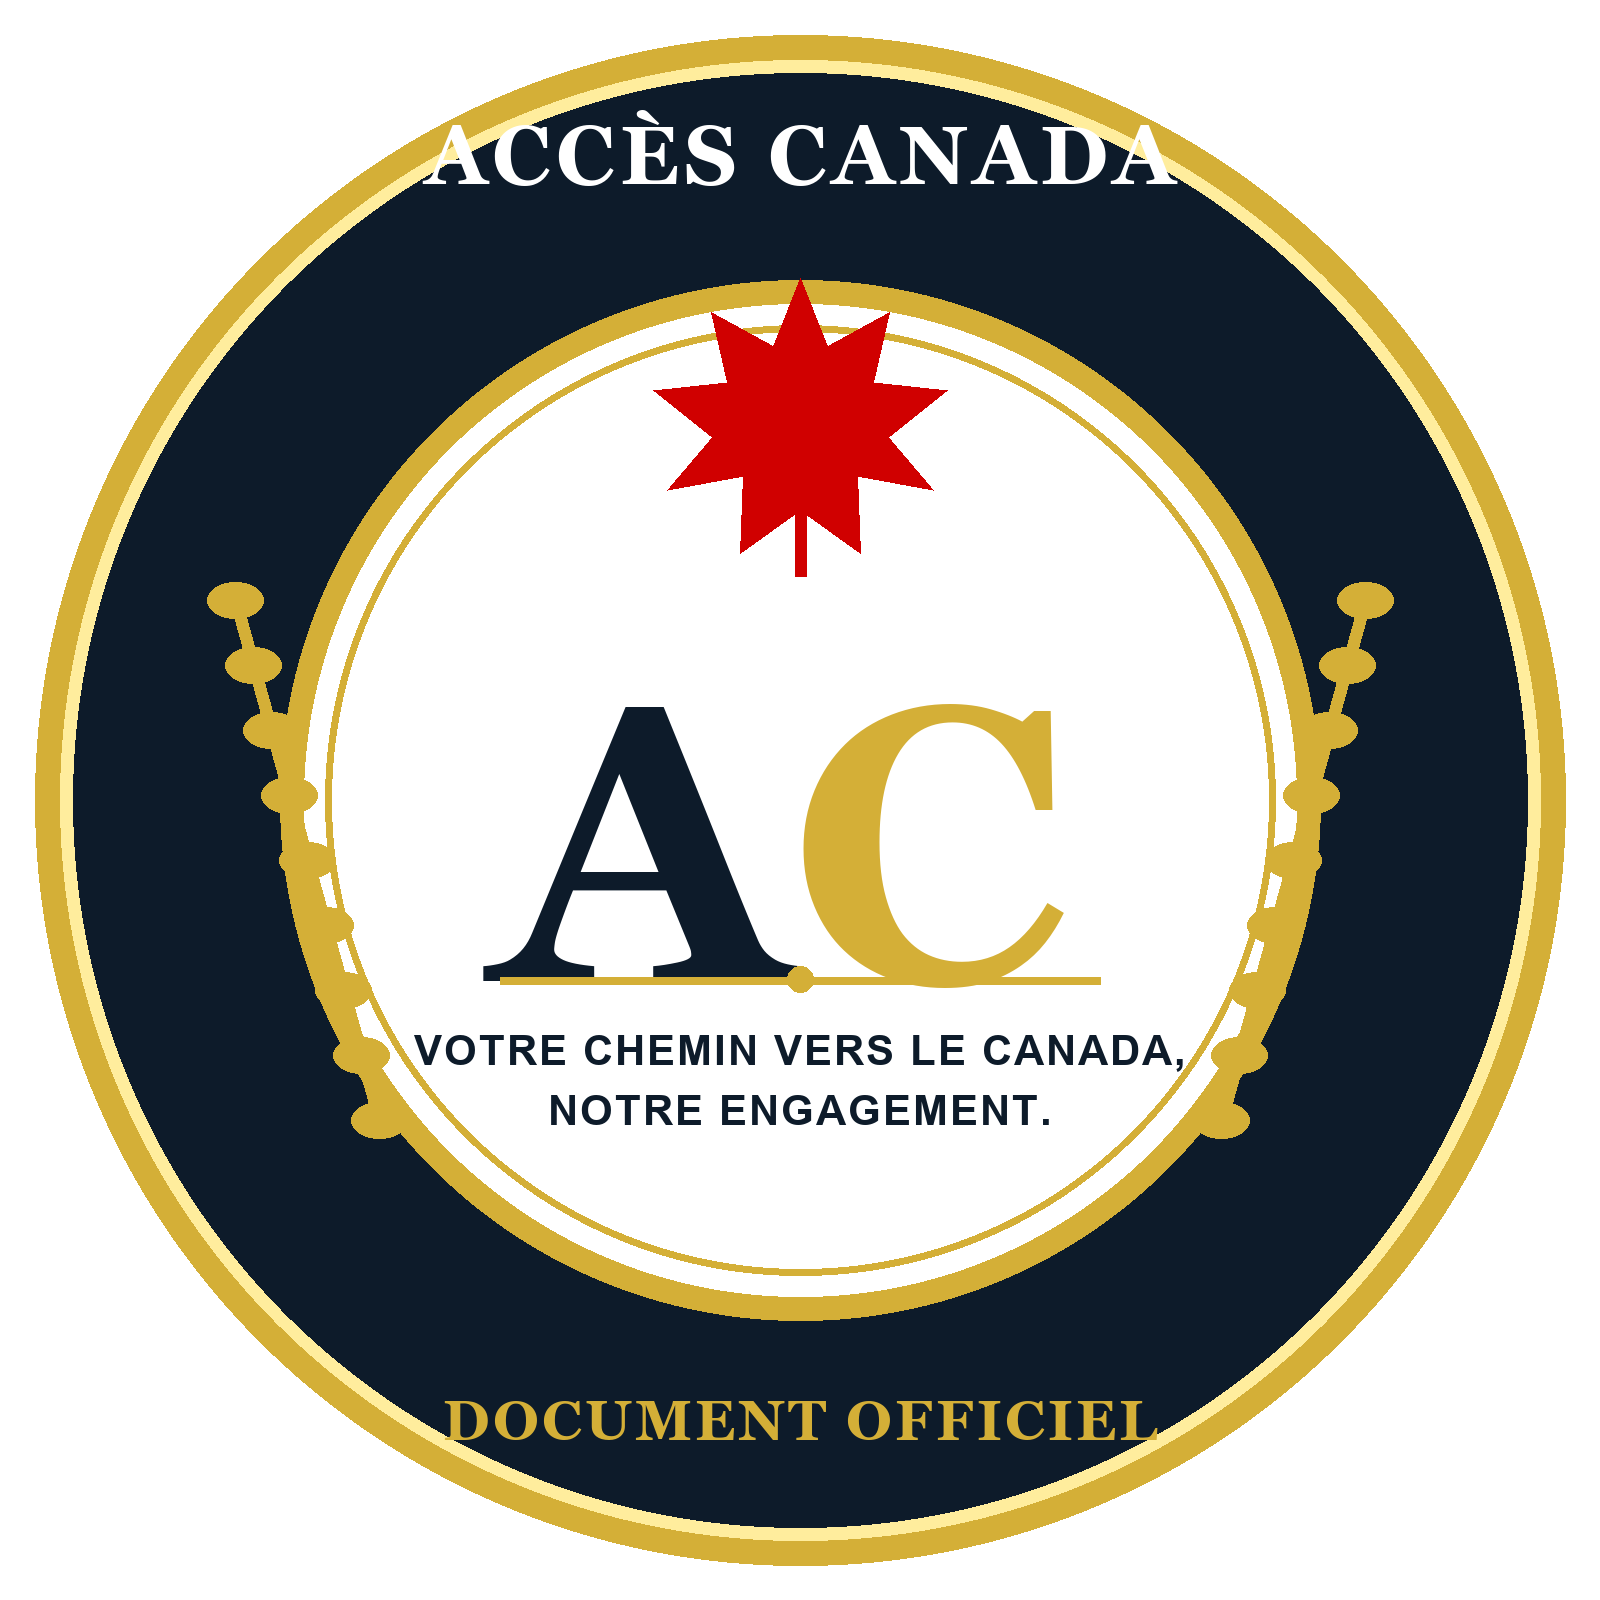
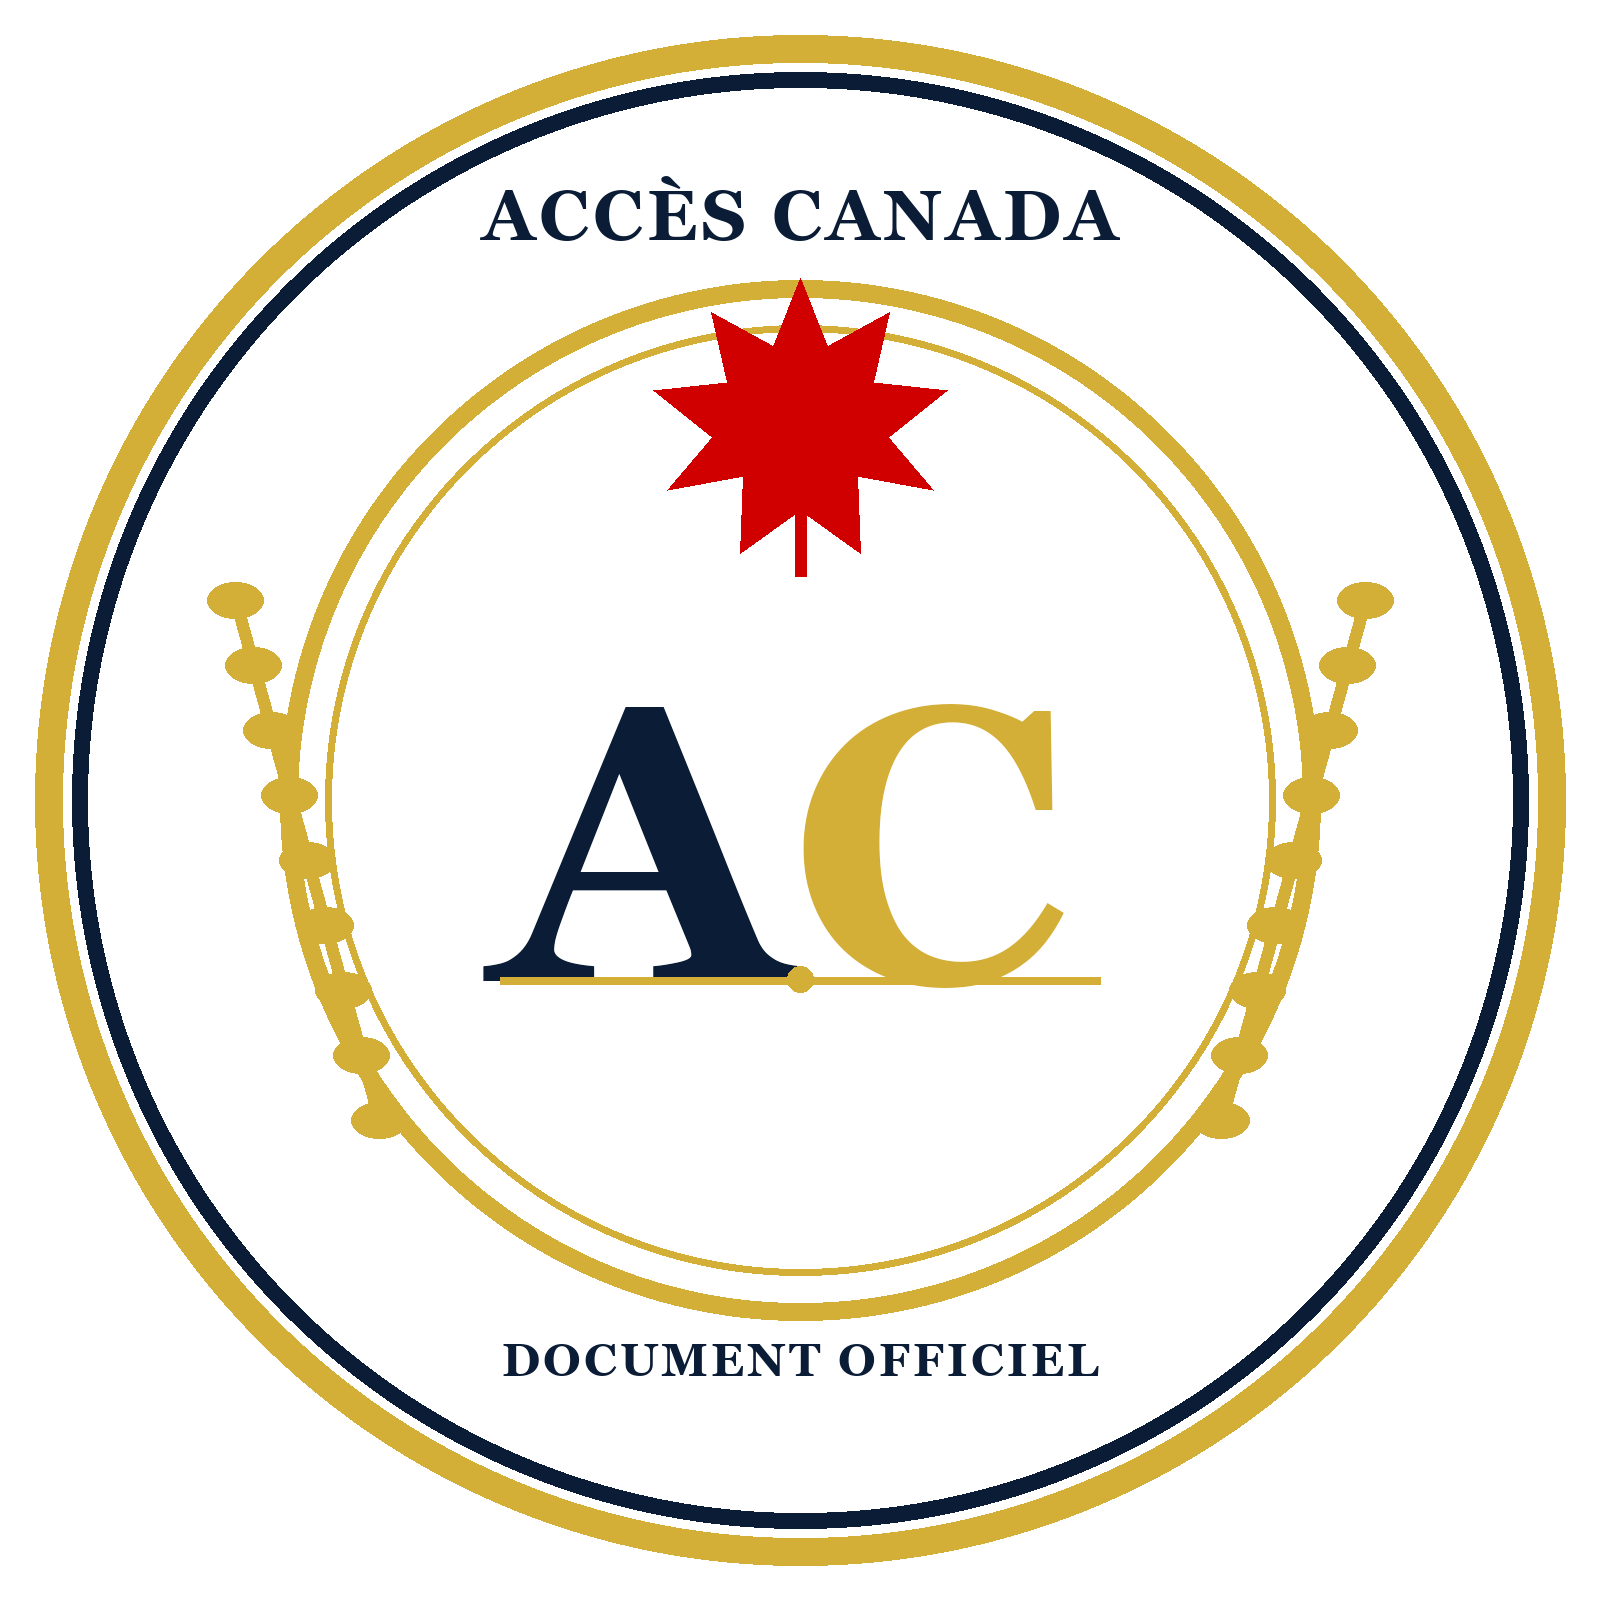
feat: apply official signature and clear document seal

diff --git a/lib/document-branding.ts b/lib/document-branding.ts
@@ -1,6 +1,7 @@
 import QRCode from "qrcode";
 import { formatDateFr } from "./format.ts";
 import { brand } from "./site.ts";
+import { directorSignatureHeight, directorSignatureRuns, directorSignatureWidth } from "./signature-director-data.ts";
 
 export const PDF_NAVY = "0.051 0.106 0.165";
 export const PDF_GOLD = "0.831 0.686 0.216";
@@ -37,10 +38,13 @@ export function watermarkCommands(pageWidth=612,pageHeight=792){const cx=pageWid
 ].join("");
 }
 
-export function officialSealCommands(x:number,y:number,size:number,digitallySigned=false){const c=size/2;let out=pdfCircle(x+c,y+c,c-3,PDF_GOLD,false,4);out+=pdfCircle(x+c,y+c,c-13,PDF_NAVY,false,11);out+=pdfCircle(x+c,y+c,c-28,PDF_GOLD,false,2);out+=pdfText("ACCÈS CANADA",x+size*.17,y+size*.76,size*.075,"F2",PDF_NAVY);out+=pdfText("AC",x+size*.31,y+size*.39,size*.22,"F2",PDF_NAVY);out+=pdfText("DOCUMENT OFFICIEL",x+size*.14,y+size*.16,size*.055,"F2",PDF_GOLD);out+=pdfText("*",x+size*.47,y+size*.62,size*.14,"F2",PDF_RED);if(digitallySigned){out+=pdfRect(x+size*.1,y+size*.05,size*.8,size*.12,PDF_NAVY);out+=pdfText("SIGNÉ NUMÉRIQUEMENT",x+size*.16,y+size*.09,size*.038,"F2","1 1 1");}return out;}
+// The fourth argument remains for compatibility with existing document templates.
+// eslint-disable-next-line @typescript-eslint/no-unused-vars
+export function officialSealCommands(x:number,y:number,size:number,_digitallySigned=false){const c=size/2;let out=pdfCircle(x+c,y+c,c-3,"1 1 1",true);out+=pdfCircle(x+c,y+c,c-3,PDF_GOLD,false,3);out+=pdfCircle(x+c,y+c,c-11,PDF_NAVY,false,3);out+=pdfCircle(x+c,y+c,c-23,PDF_GOLD,false,1.3);out+=pdfText("ACCÈS CANADA",x+size*.19,y+size*.76,size*.065,"F2",PDF_NAVY);out+=pdfText("AC",x+size*.31,y+size*.38,size*.22,"F2",PDF_NAVY);out+=pdfText("DOCUMENT OFFICIEL",x+size*.16,y+size*.15,size*.048,"F2",PDF_GOLD);out+=pdfText("*",x+size*.47,y+size*.60,size*.13,"F2",PDF_RED);return out;}
 
-function signaturePath(kind:"director"|"counsel",x:number,y:number,width:number){const scale=width/900,sy=scale*.58;const path=kind==="director"?"40 166 m 100 28 138 44 107 170 c 91 234 135 136 165 95 c 185 68 189 151 210 147 c 239 142 240 56 259 51 c 284 43 263 169 293 157 c 317 147 327 90 348 92 c 374 95 361 162 390 157 c 424 151 445 73 463 88 c 479 102 444 156 475 160 c 509 165 546 84 567 96 c 586 108 559 157 586 161 c 622 166 650 99 677 99 c 700 100 684 152 713 155 c 740 158 773 123 806 114 c":"35 175 m 89 42 151 35 125 165 c 112 230 150 156 173 109 c 188 78 197 164 216 157 c 245 146 255 66 278 63 c 300 61 273 162 306 157 c 342 151 357 66 383 69 c 407 72 374 151 407 154 c 436 156 458 85 485 87 c 509 89 478 153 505 158 c 540 165 574 84 597 91 c 619 98 588 151 615 157 c 645 164 675 101 700 106 c 725 111 700 156 731 156 c 771 156 800 117 839 127 c";return `q ${PDF_NAVY} RG 6 w 1 J 1 j ${scale} 0 0 ${sy} ${x} ${y} cm ${path} S Q\n`;}
-export function companySignatureCommands(kind:"director"|"counsel",x:number,y:number,width=190){const director=kind==="director";return signaturePath(kind,x,y+28,width)+pdfText(director?"Christian Nkuli Mboyo":"Me Régine Sifa Buledi",x,y+20,9,"F2",PDF_NAVY)+pdfText(director?"Directeur général":"Conseillère juridique",x,y+7,7.5,"F1",PDF_MUTED)+pdfText("Accès Canada",x,y-5,7.5,"F1",PDF_MUTED);}
+function signaturePath(kind:"counsel",x:number,y:number,width:number){const scale=width/900,sy=scale*.58;const path="35 175 m 89 42 151 35 125 165 c 112 230 150 156 173 109 c 188 78 197 164 216 157 c 245 146 255 66 278 63 c 300 61 273 162 306 157 c 342 151 357 66 383 69 c 407 72 374 151 407 154 c 436 156 458 85 485 87 c 509 89 478 153 505 158 c 540 165 574 84 597 91 c 619 98 588 151 615 157 c 645 164 675 101 700 106 c 725 111 700 156 731 156 c 771 156 800 117 839 127 c";return `q ${PDF_NAVY} RG 6 w 1 J 1 j ${scale} 0 0 ${sy} ${x} ${y} cm ${path} S Q\n`;}
+function directorSignatureCommands(x:number,y:number,width:number){const scale=width/directorSignatureWidth,height=directorSignatureHeight*scale;return directorSignatureRuns.map(([rx,ry,rw])=>pdfRect(x+rx*scale,y+ry*scale,Math.max(rw*scale,.2),Math.max(height/directorSignatureHeight,.2),PDF_NAVY)).join("");}
+export function companySignatureCommands(kind:"director"|"counsel",x:number,y:number,width=190){const director=kind==="director";const mark=director?directorSignatureCommands(x,y+28,width):signaturePath("counsel",x,y+28,width);return mark+pdfText(director?"Christian Nkuli Mboyo":"Me Régine Sifa Buledi",x,y+20,9,"F2",PDF_NAVY)+pdfText(director?"Directeur général":"Conseillère juridique",x,y+7,7.5,"F1",PDF_MUTED)+pdfText("Accès Canada",x,y-5,7.5,"F1",PDF_MUTED);}
 export function clientSignaturePlaceholder(x:number,y:number,width=190){return pdfLine(x,y+38,x+width,y+38,"0.70 0.72 0.75",.8)+pdfText("Signature du client",x,y+20,8,"F2",PDF_NAVY)+pdfText("Date : __________________",x,y+6,7.5,"F1",PDF_MUTED);}
 
 export function digitalSignatureCertificateCommands(meta:DocumentBrandMetadata,x:number,y:number,width=540){
@@ -50,7 +54,7 @@ export function digitalSignatureCertificateCommands(meta:DocumentBrandMetadata,x
   return [
     pdfRect(x,y,width,54,"0.955 0.965 0.975"),
     pdfRect(x,y,width,3,PDF_GOLD),
-    pdfText("SIGNÉ NUMÉRIQUEMENT",x+12,y+37,8,"F2",PDF_NAVY),
+    pdfText("VÉRIFICATION DU DOCUMENT",x+12,y+37,8,"F2",PDF_NAVY),
     pdfText(`Empreinte SHA-256 : ${first}`,x+12,y+21,6.5,"F1",PDF_MUTED),
     second?pdfText(second,x+105,y+9,6.5,"F1",PDF_MUTED):"",
   ].join("");

diff --git a/tests/document-branding.test.ts b/tests/document-branding.test.ts
@@ -10,8 +10,8 @@ test("le cachet officiel respecte les textes approuvés et possède toutes ses v
   const seal = readFileSync("public/brand/seal-official.svg", "utf8");
   assert.match(seal, /ACCÈS CANADA/);
   assert.match(seal, /DOCUMENT OFFICIEL/);
-  assert.match(seal, /VOTRE CHEMIN VERS LE CANADA,[\s\S]*NOTRE ENGAGEMENT\./i);
   assert.doesNotMatch(seal, /IMMIGRATION|DEPUIS 2026/i);
+  assert.doesNotMatch(seal, /SIGNÉ NUMÉRIQUEMENT|SIGNATURE NUMÉRIQUE/i);
 });
 
 test("les documents disposent des signatures, du cachet, du QR et du pied de page commun", () => {
@@ -21,7 +21,9 @@ test("les documents disposent des signatures, du cachet, du QR et du pied de pag
   assert.match(branding, /Christian Nkuli Mboyo/);
   assert.match(branding, /Me Régine Sifa Buledi/);
   assert.match(branding, /Signature du client/);
-  assert.match(branding, /SIGNÉ NUMÉRIQUEMENT/);
+  assert.equal(existsSync("public/brand/signature-director.png"), true);
+  assert.match(branding, /VÉRIFICATION DU DOCUMENT/);
+  assert.doesNotMatch(branding, /SIGNÉ NUMÉRIQUEMENT|SIGNATURE NUMÉRIQUE/i);
   assert.match(branding, /Empreinte SHA-256/);
   assert.match(branding, /Document confidentiel - Acces Canada/);
   assert.match(branding, /Page.*sur/);

diff --git a/lib/signature-director-data.ts b/lib/signature-director-data.ts
@@ -1,0 +1,5 @@
+// Generated from the approved transparent signature asset.
+export const directorSignatureWidth=720;
+export const directorSignatureHeight=303;
+export const directorSignatureRuns:readonly [number,number,number][]=
+[[397,229,2],[396,228,3],[395,227,4],[395,226,3],[394,225,4],[393,224,4],[393,223,4],[392,222,4],[392,221,3],[391,220,4],[532,220,3],[390,219,4],[531,219,5],[567,219,3],[390,218,4],[530,218,6],[565,218,5],[389,217,4],[529,217,8],[564,217,6],[127,216,7],[389,216,4],[528,216,9],[563,216,7],[124,215,12],[388,215,4],[527,215,10],[562,215,8],[121,214,16],[387,214,4],[526,214,5],[532,214,4],[561,214,9],[119,213,10],[132,213,6],[387,213,4],[525,213,5],[532,213,4],[560,213,10],[118,212,8],[134,212,4],[386,212,4],[525,212,5],[531,212,5],[559,212,5],[565,212,4],[116,211,8],[135,211,3],[386,211,4],[524,211,5],[531,211,5],[559,211,5],[565,211,4],[114,210,8],[135,210,4],[385,210,4],[523,210,5],[531,210,4],[558,210,5],[564,210,5],[113,209,7],[135,209,4],[385,209,4],[522,209,5],[531,209,4],[557,209,5],[564,209,4],[111,208,7],[135,208,4],[384,208,4],[521,208,5],[530,208,5],[556,208,5],[564,208,4],[110,207,6],[135,207,4],[384,207,4],[521,207,4],[530,207,4],[555,207,5],[563,207,4],[590,207,3],[108,206,7],[135,206,4],[383,206,4],[520,206,5],[530,206,4],[554,206,5],[563,206,4],[589,206,4],[107,205,6],[135,205,4],[383,205,4],[519,205,5],[529,205,5],[554,205,4],[562,205,5],[588,205,5],[106,204,6],[135,204,3],[382,204,4],[518,204,5],[529,204,4],[553,204,4],[562,204,4],[588,204,4],[104,203,7],[134,203,4],[381,203,5],[404,203,2],[518,203,4],[529,203,4],[552,203,5],[561,203,5],[587,203,4],[103,202,6],[134,202,4],[381,202,4],[403,202,4],[517,202,5],[528,202,5],[551,202,5],[561,202,4],[586,202,5],[102,201,6],[134,201,4],[380,201,5],[402,201,5],[516,201,5],[528,201,4],[550,201,5],[561,201,4],[586,201,4],[101,200,6],[133,200,4],[154,200,1],[380,200,4],[401,200,5],[516,200,4],[528,200,4],[550,200,4],[560,200,5],[585,200,5],[99,199,6],[133,199,4],[153,199,3],[379,199,5],[401,199,4],[515,199,5],[527,199,5],[549,199,4],[560,199,4],[584,199,5],[98,198,6],[133,198,4],[153,198,4],[379,198,4],[400,198,5],[454,198,3],[514,198,5],[527,198,4],[548,198,5],[559,198,5],[584,198,4],[97,197,6],[132,197,4],[152,197,4],[378,197,4],[399,197,5],[453,197,4],[513,197,5],[527,197,4],[547,197,5],[559,197,4],[583,197,5],[96,196,6],[132,196,4],[151,196,5],[225,196,2],[378,196,4],[399,196,4],[452,196,5],[513,196,4],[526,196,5],[546,196,5],[558,196,5],[583,196,4],[95,195,6],[131,195,4],[151,195,4],[224,195,3],[377,195,4],[398,195,5],[451,195,6],[512,195,5],[526,195,5],[546,195,4],[558,195,4],[582,195,4],[94,194,6],[131,194,4],[150,194,5],[223,194,4],[377,194,4],[397,194,5],[450,194,6],[511,194,5],[526,194,4],[545,194,4],[558,194,4],[581,194,5],[93,193,5],[130,193,4],[150,193,4],[222,193,4],[376,193,4],[397,193,4],[449,193,7],[511,193,4],[526,193,4],[544,193,5],[557,193,5],[581,193,4],[92,192,5],[130,192,4],[149,192,4],[222,192,4],[376,192,4],[396,192,5],[449,192,6],[510,192,5],[525,192,5],[543,192,5],[557,192,4],[580,192,4],[91,191,5],[129,191,4],[149,191,4],[221,191,4],[375,191,4],[395,191,5],[448,191,7],[509,191,5],[525,191,4],[542,191,5],[556,191,5],[579,191,5],[90,190,5],[128,190,5],[148,190,4],[220,190,4],[375,190,4],[395,190,4],[447,190,7],[509,190,4],[525,190,4],[542,190,4],[556,190,4],[579,190,4],[89,189,5],[128,189,4],[147,189,5],[219,189,5],[328,189,4],[374,189,4],[394,189,5],[446,189,8],[508,189,5],[524,189,5],[541,189,5],[555,189,5],[578,189,5],[88,188,5],[127,188,5],[147,188,4],[219,188,4],[326,188,7],[374,188,4],[393,188,5],[446,188,7],[507,188,5],[524,188,4],[540,188,5],[555,188,5],[577,188,5],[87,187,5],[127,187,4],[146,187,4],[218,187,5],[225,187,13],[325,187,9],[373,187,4],[393,187,4],[445,187,8],[507,187,4],[524,187,4],[539,187,5],[554,187,5],[577,187,4],[86,186,5],[126,186,4],[146,186,4],[217,186,21],[324,186,11],[372,186,5],[392,186,5],[444,186,8],[506,186,5],[523,186,5],[539,186,4],[554,186,5],[576,186,5],[85,185,5],[125,185,5],[145,185,4],[210,185,28],[323,185,5],[331,185,4],[372,185,4],[391,185,5],[444,185,7],[505,185,5],[523,185,5],[538,185,5],[554,185,4],[576,185,4],[84,184,5],[125,184,4],[144,184,5],[204,184,22],[323,184,4],[331,184,4],[371,184,5],[391,184,4],[443,184,8],[505,184,4],[523,184,4],[537,184,5],[553,184,5],[575,184,4],[83,183,6],[124,183,5],[144,183,4],[198,183,22],[322,183,4],[332,183,3],[371,183,4],[390,183,5],[442,183,8],[504,183,5],[522,183,5],[536,183,5],[553,183,4],[574,183,5],[82,182,6],[123,182,5],[143,182,4],[197,182,16],[215,182,5],[321,182,5],[332,182,4],[370,182,5],[390,182,4],[442,182,8],[503,182,5],[522,182,5],[536,182,4],[552,182,5],[574,182,4],[81,181,6],[123,181,4],[143,181,4],[197,181,10],[214,181,5],[321,181,4],[332,181,4],[370,181,4],[389,181,4],[441,181,8],[503,181,4],[522,181,4],[535,181,5],[552,181,5],[573,181,5],[81,180,5],[122,180,5],[142,180,4],[198,180,3],[214,180,4],[320,180,4],[332,180,4],[369,180,5],[388,180,5],[441,180,7],[502,180,5],[522,180,4],[534,180,5],[552,180,4],[573,180,4],[80,179,5],[121,179,5],[142,179,4],[213,179,5],[319,179,5],[332,179,4],[369,179,4],[388,179,4],[440,179,8],[501,179,5],[521,179,5],[533,179,5],[551,179,5],[572,179,5],[79,178,5],[121,178,4],[141,178,4],[213,178,4],[319,178,4],[332,178,4],[368,178,5],[387,178,5],[439,178,8],[501,178,5],[521,178,4],[533,178,4],[551,178,4],[571,178,5],[78,177,5],[120,177,4],[140,177,5],[212,177,5],[318,177,4],[332,177,4],[368,177,4],[386,177,5],[439,177,7],[500,177,5],[521,177,4],[532,177,5],[550,177,5],[571,177,4],[77,176,5],[119,176,5],[140,176,4],[212,176,4],[317,176,5],[332,176,4],[367,176,5],[386,176,4],[438,176,8],[500,176,4],[521,176,4],[531,176,5],[550,176,5],[570,176,5],[76,175,6],[118,175,5],[139,175,5],[211,175,4],[317,175,4],[332,175,4],[367,175,4],[385,175,5],[438,175,7],[499,175,5],[520,175,5],[531,175,4],[549,175,5],[570,175,4],[76,174,5],[110,174,1],[117,174,5],[139,174,4],[210,174,5],[316,174,4],[332,174,4],[366,174,5],[385,174,4],[437,174,7],[498,174,5],[520,174,4],[530,174,5],[549,174,5],[569,174,5],[75,173,5],[109,173,3],[117,173,4],[138,173,5],[210,173,4],[316,173,4],[332,173,4],[366,173,4],[384,173,5],[436,173,8],[498,173,4],[520,173,4],[529,173,5],[549,173,4],[569,173,4],[74,172,5],[108,172,4],[116,172,5],[138,172,4],[182,172,1],[209,172,5],[222,172,2],[315,172,4],[332,172,4],[365,172,5],[383,172,5],[436,172,7],[452,172,2],[497,172,5],[519,172,5],[528,172,5],[548,172,5],[568,172,4],[73,171,5],[107,171,4],[115,171,5],[137,171,4],[181,171,3],[209,171,4],[221,171,4],[315,171,4],[332,171,4],[365,171,4],[383,171,4],[435,171,7],[451,171,4],[496,171,5],[519,171,4],[528,171,4],[548,171,4],[567,171,5],[72,170,6],[107,170,4],[114,170,5],[137,170,4],[180,170,5],[208,170,5],[220,170,5],[314,170,4],[332,170,4],[364,170,5],[382,170,5],[435,170,6],[451,170,4],[496,170,5],[519,170,4],[527,170,5],[548,170,4],[567,170,4],[72,169,5],[106,169,4],[113,169,5],[136,169,4],[179,169,5],[208,169,4],[219,169,5],[314,169,4],[332,169,4],[364,169,4],[381,169,5],[434,169,7],[450,169,5],[495,169,5],[519,169,4],[526,169,5],[547,169,5],[566,169,5],[71,168,5],[106,168,4],[112,168,5],[135,168,5],[179,168,4],[207,168,4],[219,168,4],[313,168,4],[332,168,4],[363,168,5],[381,168,4],[434,168,6],[450,168,4],[495,168,4],[518,168,5],[525,168,5],[547,168,4],[566,168,4],[70,167,5],[105,167,4],[110,167,6],[135,167,4],[180,167,2],[206,167,5],[220,167,2],[313,167,4],[332,167,4],[363,167,4],[380,167,5],[392,167,4],[433,167,6],[451,167,2],[494,167,5],[518,167,4],[525,167,4],[546,167,5],[565,167,5],[576,167,4],[70,166,5],[105,166,10],[134,166,5],[190,166,5],[206,166,4],[312,166,4],[331,166,4],[362,166,5],[380,166,4],[390,166,7],[433,166,6],[493,166,5],[518,166,4],[524,166,5],[546,166,5],[565,166,4],[573,166,8],[591,166,4],[635,166,5],[69,165,5],[105,165,8],[134,165,4],[189,165,7],[205,165,5],[311,165,5],[331,165,4],[362,165,4],[379,165,5],[388,165,9],[432,165,6],[493,165,4],[518,165,4],[523,165,5],[546,165,4],[564,165,5],[571,165,11],[590,165,6],[634,165,7],[68,164,5],[105,164,7],[133,164,5],[188,164,8],[205,164,4],[311,164,4],[331,164,4],[361,164,5],[379,164,4],[386,164,11],[432,164,5],[492,164,5],[518,164,4],[523,164,4],[545,164,5],[563,164,5],[570,164,12],[589,164,8],[621,164,3],[633,164,9],[67,163,5],[106,163,5],[133,163,4],[187,163,9],[204,163,5],[311,163,4],[331,163,4],[361,163,4],[378,163,5],[385,163,6],[392,163,5],[431,163,5],[491,163,5],[517,163,4],[522,163,5],[545,163,4],[563,163,4],[568,163,7],[578,163,4],[588,163,9],[620,163,4],[633,163,9],[67,162,5],[132,162,4],[159,162,2],[166,162,4],[186,162,5],[192,162,3],[204,162,4],[254,162,2],[310,162,4],[331,162,4],[360,162,5],[377,162,5],[384,162,5],[391,162,5],[431,162,4],[491,162,5],[517,162,9],[544,162,5],[562,162,11],[578,162,3],[588,162,4],[593,162,4],[607,162,2],[619,162,5],[632,162,5],[638,162,4],[66,161,5],[132,161,4],[142,161,4],[158,161,4],[165,161,6],[175,161,2],[186,161,4],[191,161,3],[203,161,4],[215,161,2],[230,161,5],[253,161,3],[310,161,4],[331,161,4],[360,161,4],[377,161,4],[382,161,6],[390,161,5],[405,161,2],[430,161,5],[446,161,2],[490,161,5],[517,161,8],[544,161,5],[562,161,9],[577,161,4],[586,161,6],[593,161,4],[606,161,3],[618,161,6],[632,161,5],[638,161,4],[65,160,5],[131,160,4],[140,160,7],[157,160,5],[163,160,8],[174,160,4],[186,160,7],[203,160,4],[214,160,4],[229,160,7],[252,160,4],[261,160,4],[309,160,4],[331,160,4],[359,160,5],[376,160,10],[389,160,5],[404,160,4],[415,160,4],[430,160,4],[445,160,4],[490,160,4],[517,160,7],[544,160,4],[561,160,9],[576,160,5],[583,160,9],[593,160,4],[605,160,4],[617,160,6],[632,160,4],[638,160,3],[688,160,13],[65,159,5],[130,159,5],[139,159,8],[157,159,4],[162,159,9],[173,159,5],[185,159,7],[202,159,4],[213,159,5],[227,159,12],[251,159,5],[260,159,6],[309,159,4],[331,159,4],[359,159,4],[376,159,9],[387,159,6],[403,159,4],[414,159,5],[429,159,4],[444,159,5],[489,159,5],[517,159,7],[543,159,5],[561,159,7],[576,159,15],[592,159,4],[604,159,5],[616,159,7],[631,159,5],[637,159,4],[675,159,27],[64,158,5],[130,158,4],[138,158,9],[156,158,4],[161,158,5],[168,158,3],[173,158,4],[185,158,6],[201,158,5],[213,158,4],[226,158,13],[250,158,5],[258,158,9],[308,158,5],[330,158,4],[358,158,5],[375,158,8],[386,158,6],[402,158,5],[413,158,6],[429,158,4],[444,158,4],[488,158,5],[517,158,6],[543,158,5],[560,158,7],[575,158,21],[603,158,5],[615,158,7],[630,158,6],[637,158,4],[665,158,34],[64,157,4],[129,157,5],[137,157,10],[156,157,9],[168,157,2],[172,157,4],[185,157,5],[200,157,5],[212,157,4],[225,157,5],[233,157,6],[249,157,6],[257,157,10],[308,157,4],[330,157,4],[358,157,4],[375,157,7],[384,157,6],[402,157,4],[412,157,6],[428,157,4],[443,157,4],[488,157,5],[517,157,5],[543,157,4],[560,157,6],[575,157,9],[585,157,11],[602,157,5],[613,157,9],[629,157,12],[655,157,33],[63,156,5],[129,156,4],[136,156,5],[142,156,4],[155,156,9],[171,156,5],[185,156,4],[198,156,7],[211,156,5],[224,156,5],[231,156,7],[248,156,6],[256,156,5],[262,156,5],[307,156,5],[330,156,4],[357,156,5],[374,156,7],[382,156,7],[401,156,5],[411,156,7],[427,156,5],[442,156,5],[487,156,5],[517,156,4],[542,156,5],[559,156,6],[572,156,9],[584,156,12],[599,156,8],[612,156,9],[627,156,13],[646,156,32],[62,155,5],[128,155,5],[135,155,5],[141,155,5],[154,155,9],[171,155,4],[184,155,5],[196,155,8],[211,155,4],[223,155,5],[230,155,8],[247,155,7],[255,155,5],[262,155,4],[307,155,4],[330,155,4],[357,155,4],[373,155,14],[401,155,4],[410,155,7],[426,155,5],[442,155,4],[455,155,2],[487,155,4],[518,155,2],[542,155,4],[558,155,6],[570,155,8],[584,155,4],[589,155,17],[611,155,5],[617,155,4],[626,155,7],[634,155,35],[62,154,5],[128,154,4],[134,154,5],[141,154,4],[153,154,9],[170,154,4],[183,154,6],[195,154,9],[210,154,5],[223,154,4],[229,154,8],[246,154,7],[254,154,4],[262,154,4],[277,154,2],[306,154,5],[330,154,4],[356,154,5],[373,154,12],[400,154,4],[409,154,8],[425,154,6],[441,154,5],[454,154,3],[486,154,5],[542,154,4],[558,154,5],[568,154,9],[583,154,4],[590,154,16],[610,154,5],[616,154,4],[625,154,7],[635,154,24],[61,153,5],[127,153,5],[133,153,4],[141,153,4],[152,153,9],[170,153,4],[182,153,7],[193,153,5],[199,153,4],[210,153,4],[222,153,4],[228,153,9],[245,153,12],[261,153,5],[275,153,4],[306,153,4],[330,153,4],[356,153,4],[371,153,12],[399,153,5],[408,153,8],[424,153,6],[440,153,5],[453,153,3],[485,153,5],[541,153,5],[557,153,5],[566,153,10],[583,153,4],[590,153,9],[601,153,4],[608,153,5],[616,153,4],[624,153,3],[628,153,4],[635,153,15],[61,152,4],[127,152,4],[132,152,4],[140,152,4],[151,152,9],[169,152,4],[180,152,4],[186,152,4],[191,152,6],[199,152,4],[209,152,4],[220,152,6],[227,152,9],[243,152,13],[261,152,4],[274,152,4],[305,152,5],[330,152,4],[355,152,5],[370,152,11],[397,152,6],[407,152,9],[423,152,7],[439,152,6],[452,152,4],[485,152,5],[541,152,4],[557,152,5],[565,152,10],[582,152,4],[589,152,4],[601,152,4],[607,152,5],[615,152,4],[623,152,3],[627,152,4],[634,152,4],[60,151,5],[126,151,9],[140,151,4],[150,151,9],[169,151,4],[179,151,4],[186,151,9],[198,151,5],[209,151,4],[219,151,6],[226,151,5],[232,151,4],[242,151,13],[261,151,4],[272,151,5],[305,151,4],[330,151,4],[355,151,4],[370,151,10],[396,151,7],[406,151,5],[412,151,4],[421,151,8],[438,151,6],[450,151,5],[484,151,5],[541,151,4],[556,151,5],[563,151,6],[570,151,4],[582,151,4],[589,151,4],[600,151,11],[615,151,4],[621,151,4],[627,151,4],[633,151,5],[60,150,4],[126,150,8],[140,150,4],[148,150,11],[168,150,4],[178,150,4],[186,150,7],[198,150,4],[208,150,4],[218,150,6],[225,150,5],[232,150,4],[241,150,5],[247,150,7],[261,150,4],[271,150,4],[305,150,4],[330,150,4],[354,150,5],[370,150,10],[395,150,7],[405,150,5],[411,150,4],[420,150,4],[425,150,4],[437,150,7],[449,150,4],[484,150,4],[540,150,5],[556,150,4],[562,150,5],[569,150,4],[582,150,3],[588,150,4],[600,150,10],[615,150,4],[620,150,4],[627,150,4],[633,150,4],[59,149,5],[125,149,8],[139,149,4],[147,149,11],[168,149,4],[176,149,5],[186,149,6],[198,149,4],[208,149,4],[217,149,12],[232,149,3],[239,149,5],[246,149,7],[260,149,4],[269,149,5],[304,149,4],[329,149,4],[354,149,4],[370,149,5],[376,149,5],[393,149,9],[404,149,5],[411,149,4],[419,149,5],[425,149,4],[437,149,6],[448,149,4],[483,149,5],[540,149,4],[555,149,5],[561,149,5],[567,149,5],[581,149,4],[587,149,4],[600,149,8],[614,149,4],[619,149,4],[627,149,3],[632,149,4],[58,148,5],[125,148,7],[139,148,4],[146,148,5],[152,148,5],[168,148,3],[175,148,5],[185,148,6],[197,148,4],[208,148,4],[215,148,13],[232,148,3],[237,148,6],[245,148,7],[260,148,4],[267,148,6],[304,148,4],[329,148,4],[353,148,5],[369,148,6],[377,148,5],[391,148,6],[398,148,10],[411,148,4],[417,148,5],[424,148,4],[436,148,7],[446,148,5],[482,148,5],[540,148,4],[555,148,9],[566,148,5],[581,148,4],[586,148,5],[601,148,6],[614,148,8],[626,148,4],[631,148,5],[58,147,5],[124,147,7],[139,147,4],[144,147,6],[151,147,5],[167,147,4],[173,147,6],[184,147,6],[197,147,4],[207,147,4],[213,147,14],[232,147,10],[245,147,6],[260,147,12],[303,147,4],[329,147,4],[353,147,4],[369,147,5],[378,147,5],[389,147,7],[398,147,9],[411,147,10],[424,147,4],[435,147,7],[444,147,6],[482,147,5],[539,147,5],[554,147,9],[564,147,6],[581,147,9],[602,147,3],[613,147,8],[626,147,9],[57,146,5],[124,146,6],[139,146,9],[151,146,5],[167,146,11],[182,146,8],[196,146,4],[207,146,11],[220,146,5],[232,146,8],[245,146,5],[261,146,9],[303,146,4],[329,146,4],[352,146,5],[368,146,5],[379,146,15],[398,146,8],[412,146,8],[423,146,4],[434,146,4],[439,146,10],[481,146,5],[539,146,4],[554,146,15],[582,146,7],[613,146,7],[627,146,7],[57,145,5],[123,145,6],[139,145,8],[150,145,5],[168,145,8],[181,145,9],[196,145,4],[207,145,9],[221,145,2],[233,145,6],[244,145,5],[261,145,8],[302,145,4],[329,145,4],[352,145,4],[368,145,5],[380,145,13],[399,145,5],[412,145,6],[423,145,4],[433,145,4],[439,145,9],[481,145,5],[539,145,4],[553,145,5],[559,145,8],[582,145,6],[612,145,7],[627,145,6],[56,144,5],[123,144,6],[140,144,6],[150,144,4],[168,144,7],[180,144,5],[186,144,4],[196,144,4],[208,144,7],[235,144,1],[245,144,3],[263,144,3],[302,144,4],[329,144,4],[351,144,5],[367,144,5],[381,144,10],[400,144,2],[414,144,2],[423,144,4],[432,144,4],[439,144,7],[480,144,5],[538,144,5],[553,144,4],[559,144,7],[583,144,3],[612,144,6],[628,144,4],[56,143,5],[122,143,6],[142,143,1],[150,143,4],[169,143,4],[179,143,4],[185,143,4],[195,143,4],[209,143,4],[301,143,7],[329,143,4],[351,143,4],[367,143,5],[423,143,3],[430,143,5],[440,143,4],[479,143,5],[538,143,4],[552,143,4],[561,143,2],[611,143,6],[56,142,4],[122,142,5],[131,142,3],[151,142,1],[177,142,5],[184,142,5],[195,142,4],[301,142,6],[329,142,4],[350,142,5],[366,142,5],[422,142,4],[429,142,5],[479,142,5],[538,142,4],[552,142,4],[611,142,5],[55,141,5],[122,141,4],[130,141,4],[177,141,4],[183,141,5],[195,141,4],[301,141,6],[328,141,5],[350,141,4],[366,141,5],[422,141,4],[428,141,5],[478,141,5],[537,141,5],[553,141,2],[610,141,5],[55,140,4],[129,140,4],[176,140,4],[182,140,5],[194,140,4],[300,140,6],[328,140,5],[349,140,5],[365,140,5],[422,140,4],[427,140,5],[478,140,5],[537,140,4],[610,140,4],[54,139,5],[128,139,4],[175,139,4],[180,139,6],[194,139,4],[300,139,6],[328,139,4],[349,139,4],[365,139,4],[422,139,9],[477,139,5],[537,139,4],[609,139,5],[54,138,4],[127,138,4],[174,138,4],[179,138,6],[194,138,4],[299,138,6],[328,138,4],[348,138,5],[364,138,5],[422,138,8],[477,138,4],[536,138,5],[608,138,5],[53,137,5],[126,137,4],[174,137,10],[194,137,3],[299,137,5],[328,137,4],[348,137,4],[364,137,4],[423,137,5],[476,137,5],[536,137,4],[607,137,6],[53,136,5],[124,136,5],[175,136,7],[194,136,3],[299,136,5],[328,136,4],[347,136,5],[363,136,5],[425,136,1],[475,136,5],[536,136,4],[606,136,6],[53,135,4],[123,135,5],[175,135,5],[193,135,5],[298,135,5],[328,135,4],[347,135,4],[363,135,4],[475,135,5],[535,135,5],[605,135,7],[52,134,5],[122,134,5],[193,134,5],[298,134,4],[328,134,4],[346,134,5],[363,134,4],[474,134,5],[535,134,5],[604,134,7],[52,133,5],[121,133,5],[194,133,4],[299,133,3],[328,133,4],[346,133,4],[474,133,4],[535,133,4],[603,133,8],[52,132,4],[120,132,4],[194,132,3],[327,132,5],[345,132,5],[473,132,5],[535,132,4],[603,132,7],[51,131,5],[119,131,4],[327,131,4],[345,131,4],[472,131,5],[534,131,5],[602,131,8],[51,130,5],[117,130,5],[327,130,4],[344,130,5],[472,130,5],[534,130,4],[601,130,8],[51,129,4],[116,129,5],[327,129,4],[344,129,4],[471,129,5],[534,129,4],[600,129,4],[605,129,4],[51,128,4],[115,128,5],[327,128,4],[343,128,5],[471,128,5],[534,128,4],[599,128,4],[604,128,4],[51,127,4],[114,127,5],[327,127,4],[343,127,5],[470,127,5],[533,127,5],[598,127,5],[604,127,4],[51,126,4],[113,126,5],[327,126,4],[342,126,5],[469,126,5],[533,126,4],[598,126,4],[603,126,4],[50,125,5],[111,125,6],[327,125,4],[342,125,5],[469,125,5],[533,125,4],[597,125,4],[602,125,5],[50,124,4],[110,124,6],[327,124,4],[342,124,4],[468,124,5],[533,124,4],[596,124,4],[602,124,4],[50,123,4],[109,123,5],[327,123,4],[341,123,5],[468,123,5],[532,123,5],[596,123,4],[601,123,5],[50,122,4],[108,122,5],[327,122,4],[341,122,4],[467,122,5],[532,122,5],[595,122,4],[601,122,4],[50,121,4],[106,121,6],[327,121,4],[340,121,5],[467,121,4],[532,121,4],[594,121,4],[600,121,5],[50,120,4],[105,120,6],[327,120,4],[340,120,4],[466,120,5],[532,120,4],[593,120,4],[600,120,4],[50,119,4],[104,119,6],[327,119,4],[339,119,5],[464,119,6],[532,119,4],[593,119,4],[599,119,5],[50,118,4],[102,118,6],[327,118,4],[339,118,4],[463,118,7],[532,118,4],[592,118,4],[599,118,4],[50,117,5],[101,117,6],[327,117,4],[338,117,5],[463,117,6],[532,117,4],[591,117,5],[598,117,5],[51,116,4],[100,116,6],[327,116,4],[338,116,4],[463,116,5],[531,116,7],[591,116,4],[598,116,4],[51,115,4],[98,115,7],[327,115,4],[337,115,5],[463,115,5],[531,115,7],[590,115,4],[597,115,5],[51,114,4],[97,114,6],[327,114,4],[337,114,4],[463,114,4],[529,114,53],[590,114,4],[597,114,4],[51,113,5],[95,113,7],[327,113,4],[336,113,5],[494,113,90],[589,113,4],[596,113,4],[52,112,4],[94,112,7],[327,112,4],[336,112,4],[473,112,111],[588,112,5],[596,112,4],[52,111,5],[92,111,7],[327,111,4],[335,111,5],[450,111,133],[588,111,4],[595,111,4],[53,110,4],[90,110,8],[327,110,4],[335,110,4],[432,110,100],[533,110,4],[587,110,4],[594,110,5],[53,109,5],[88,109,8],[327,109,4],[334,109,5],[417,109,85],[587,109,4],[594,109,4],[54,108,5],[86,108,8],[327,108,4],[334,108,4],[400,108,77],[586,108,4],[593,108,5],[55,107,5],[84,107,9],[327,107,4],[333,107,5],[384,107,72],[586,107,4],[593,107,4],[56,106,6],[82,106,9],[327,106,4],[333,106,4],[370,106,67],[585,106,4],[592,106,4],[57,105,7],[78,105,11],[327,105,4],[332,105,5],[354,105,65],[585,105,4],[591,105,5],[58,104,12],[72,104,15],[327,104,9],[340,104,62],[584,104,4],[591,104,4],[59,103,26],[325,103,63],[584,103,4],[590,103,5],[61,102,21],[312,102,59],[584,102,4],[590,102,4],[64,101,15],[300,101,56],[583,101,4],[589,101,4],[68,100,5],[287,100,54],[583,100,4],[588,100,5],[275,99,50],[328,99,5],[583,99,4],[588,99,4],[264,98,50],[329,98,3],[582,98,4],[587,98,4],[253,97,48],[582,97,9],[242,96,45],[582,96,8],[232,95,44],[582,95,7],[221,94,42],[582,94,6],[210,93,41],[582,93,5],[201,92,40],[583,92,3],[192,91,38],[184,90,34],[175,89,34],[165,88,33],[157,87,31],[148,86,32],[140,85,31],[133,84,27],[125,83,27],[118,82,25],[111,81,23],[104,80,22],[97,79,20],[96,78,13]];

diff --git a/lib/pdf-documents.ts b/lib/pdf-documents.ts
@@ -353,8 +353,8 @@ export function generateClientPdf(client: AdminClient, type: ClientDocumentType,
   const needsCounsel=["convention","lettre-explicative","lettre-soutien-financier","lettre-invitation"].includes(type);
   if(needsCounsel)content.push(companySignatureCommands("counsel",220,y,170));
   content.push(clientSignaturePlaceholder(410,y,150));
-  content.push(digitalSignatureCertificateCommands(meta,36,y-76,540));
-  pages.push(content);const builder=new BrandedPdfBuilder();pages.forEach((commands,index)=>builder.addPage(commands.join("")+officialSealCommands(470,76,92,meta.digitallySigned)+premiumFooterCommands(meta,index+1,pages.length)));return builder.finish();
+  content.push(digitalSignatureCertificateCommands(meta,36,y-76,360));
+  pages.push(content);const builder=new BrandedPdfBuilder();pages.forEach((commands,index)=>builder.addPage(commands.join("")+officialSealCommands(430,76,92,meta.digitallySigned)+premiumFooterCommands(meta,index+1,pages.length)));return builder.finish();
 }
 
 export function isClientDocumentType(type: string): type is ClientDocumentType {

diff --git a/tools/render-brand-assets.py b/tools/render-brand-assets.py
@@ -1,28 +1,56 @@
 from pathlib import Path
 from PIL import Image, ImageDraw, ImageFont
-ROOT=Path(__file__).resolve().parents[1]; OUT=ROOT/'public'/'brand'
-NAVY=(13,27,42,255); GOLD=(212,175,55,255); RED=(208,0,0,255); WHITE=(255,255,255,255)
-def font(size,bold=False,serif=False):
-    name=('georgiab.ttf' if bold else 'georgia.ttf') if serif else ('arialbd.ttf' if bold else 'arial.ttf')
-    path=Path('C:/Windows/Fonts')/name
-    return ImageFont.truetype(str(path),size) if path.exists() else ImageFont.load_default()
-def centered(draw,xy,text,f,fill,spacing=0):
-    widths=[draw.textlength(c,font=f) for c in text]; total=sum(widths)+spacing*max(0,len(text)-1); x=xy[0]-total/2
-    for c,w in zip(text,widths): draw.text((x,xy[1]),c,font=f,fill=fill,anchor='lm'); x+=w+spacing
-def seal(path,signed=False,mono=False):
-    s=1600; im=Image.new('RGBA',(s,s),(0,0,0,0)); d=ImageDraw.Draw(im); c=s//2; ink=NAVY
-    d.ellipse((35,35,s-35,s-35),fill=WHITE if mono else GOLD); d.ellipse((60,60,s-60,s-60),fill=WHITE if mono else NAVY,outline=ink if mono else (255,237,157,255),width=13); d.ellipse((280,280,s-280,s-280),fill=WHITE,outline=ink if mono else GOLD,width=24); d.ellipse((325,325,s-325,s-325),outline=ink if mono else GOLD,width=7)
-    centered(d,(c,155),'ACCÈS CANADA',font(82,True,True),ink if mono else WHITE,5); centered(d,(c,1420),'DOCUMENT OFFICIEL',font(56,True,True),ink if mono else GOLD,3)
-    maple=[(800,278),(827,346),(889,312),(873,382),(947,390),(888,437),(933,490),(857,476),(860,553),(800,510),(740,553),(743,476),(667,490),(712,437),(653,390),(727,382),(711,312),(773,346)]
-    d.polygon(maple,fill=ink if mono else RED); d.line((800,510,800,576),fill=ink if mono else RED,width=12)
-    d.text((790,845),'A',font=font(390,True,True),fill=ink,anchor='rm'); d.text((790,845),'C',font=font(390,True,True),fill=ink if mono else GOLD,anchor='lm')
-    d.line((500,980,1100,980),fill=ink if mono else GOLD,width=8); d.ellipse((787,966,813,992),fill=ink if mono else GOLD); centered(d,(c,1050),'VOTRE CHEMIN VERS LE CANADA,',font(42,True),NAVY,2); centered(d,(c,1110),'NOTRE ENGAGEMENT.',font(42,True),NAVY,2)
-    for side in (-1,1):
-        pts=[]
-        for i in range(9):
-            y=600+i*65; x=c+side*(565-18*i); pts.append((x,y)); d.ellipse((x-28,y-18,x+28,y+18),fill=ink if mono else GOLD)
-        d.line(pts,fill=ink if mono else GOLD,width=12)
-    if signed:
-        d.rounded_rectangle((210,1180,1390,1325),radius=28,fill=NAVY,outline=GOLD,width=10); centered(d,(c,1255),'SIGNÉ NUMÉRIQUEMENT',font(58,True),WHITE,5)
-    im.save(path,optimize=True)
-seal(OUT/'seal-official.png'); seal(OUT/'seal-monochrome.png',mono=True); seal(OUT/'seal-signed.png',signed=True)
+
+ROOT = Path(__file__).resolve().parents[1]
+OUT = ROOT / "public" / "brand"
+NAVY = (11, 29, 54, 255)
+GOLD = (212, 175, 55, 255)
+RED = (208, 0, 0, 255)
+WHITE = (255, 255, 255, 225)
+
+def font(size, bold=False, serif=False):
+    name = ("georgiab.ttf" if bold else "georgia.ttf") if serif else ("arialbd.ttf" if bold else "arial.ttf")
+    path = Path("C:/Windows/Fonts") / name
+    return ImageFont.truetype(str(path), size) if path.exists() else ImageFont.load_default()
+
+def centered(draw, xy, text, f, fill, spacing=0):
+    widths = [draw.textlength(char, font=f) for char in text]
+    x = xy[0] - (sum(widths) + spacing * max(0, len(text) - 1)) / 2
+    for char, width in zip(text, widths):
+        draw.text((x, xy[1]), char, font=f, fill=fill, anchor="lm")
+        x += width + spacing
+
+def seal(path, mono=False):
+    size = 1600
+    image = Image.new("RGBA", (size, size), (0, 0, 0, 0))
+    draw = ImageDraw.Draw(image)
+    center = size // 2
+    ink = NAVY
+    accent = ink if mono else GOLD
+    maple_color = ink if mono else RED
+    draw.ellipse((35, 35, size - 35, size - 35), fill=WHITE, outline=accent, width=28)
+    draw.ellipse((72, 72, size - 72, size - 72), outline=ink, width=16)
+    draw.ellipse((280, 280, size - 280, size - 280), fill=(255, 255, 255, 175), outline=accent, width=18)
+    draw.ellipse((325, 325, size - 325, size - 325), outline=accent, width=7)
+    centered(draw, (center, 215), "ACCÈS CANADA", font(70, True, True), ink, 4)
+    centered(draw, (center, 1360), "DOCUMENT OFFICIEL", font(46, True, True), ink, 3)
+    maple = [(800,278),(827,346),(889,312),(873,382),(947,390),(888,437),(933,490),(857,476),(860,553),(800,510),(740,553),(743,476),(667,490),(712,437),(653,390),(727,382),(711,312),(773,346)]
+    draw.polygon(maple, fill=maple_color)
+    draw.line((800, 510, 800, 576), fill=maple_color, width=12)
+    draw.text((790, 845), "A", font=font(390, True, True), fill=ink, anchor="rm")
+    draw.text((790, 845), "C", font=font(390, True, True), fill=accent, anchor="lm")
+    draw.line((500, 980, 1100, 980), fill=accent, width=8)
+    draw.ellipse((787, 966, 813, 992), fill=accent)
+    for side in (-1, 1):
+        points = []
+        for index in range(9):
+            y = 600 + index * 65
+            x = center + side * (565 - 18 * index)
+            points.append((x, y))
+            draw.ellipse((x - 28, y - 18, x + 28, y + 18), fill=accent)
+        draw.line(points, fill=accent, width=12)
+    image.save(path, optimize=True)
+
+seal(OUT / "seal-official.png")
+seal(OUT / "seal-monochrome.png", mono=True)
+seal(OUT / "seal-signed.png")

diff --git a/tools/vectorize-signature.py b/tools/vectorize-signature.py
@@ -1,0 +1,30 @@
+from pathlib import Path
+from PIL import Image
+
+ROOT = Path(__file__).resolve().parents[1]
+source = Image.open(ROOT / "public" / "brand" / "signature-director.png").convert("RGBA")
+width = 720
+height = round(source.height * width / source.width)
+alpha = source.resize((width, height), Image.Resampling.LANCZOS).getchannel("A")
+runs = []
+for y in range(height):
+    x = 0
+    while x < width:
+        while x < width and alpha.getpixel((x, y)) < 48:
+            x += 1
+        start = x
+        while x < width and alpha.getpixel((x, y)) >= 48:
+            x += 1
+        if x > start:
+            runs.append((start, height - y - 1, x - start))
+
+target = ROOT / "lib" / "signature-director-data.ts"
+target.write_text(
+    "// Generated from the approved transparent signature asset.\n"
+    f"export const directorSignatureWidth={width};\n"
+    f"export const directorSignatureHeight={height};\n"
+    "export const directorSignatureRuns:readonly [number,number,number][]=\n["
+    + ",".join(f"[{x},{y},{length}]" for x, y, length in runs)
+    + "];\n",
+    encoding="utf-8",
+)